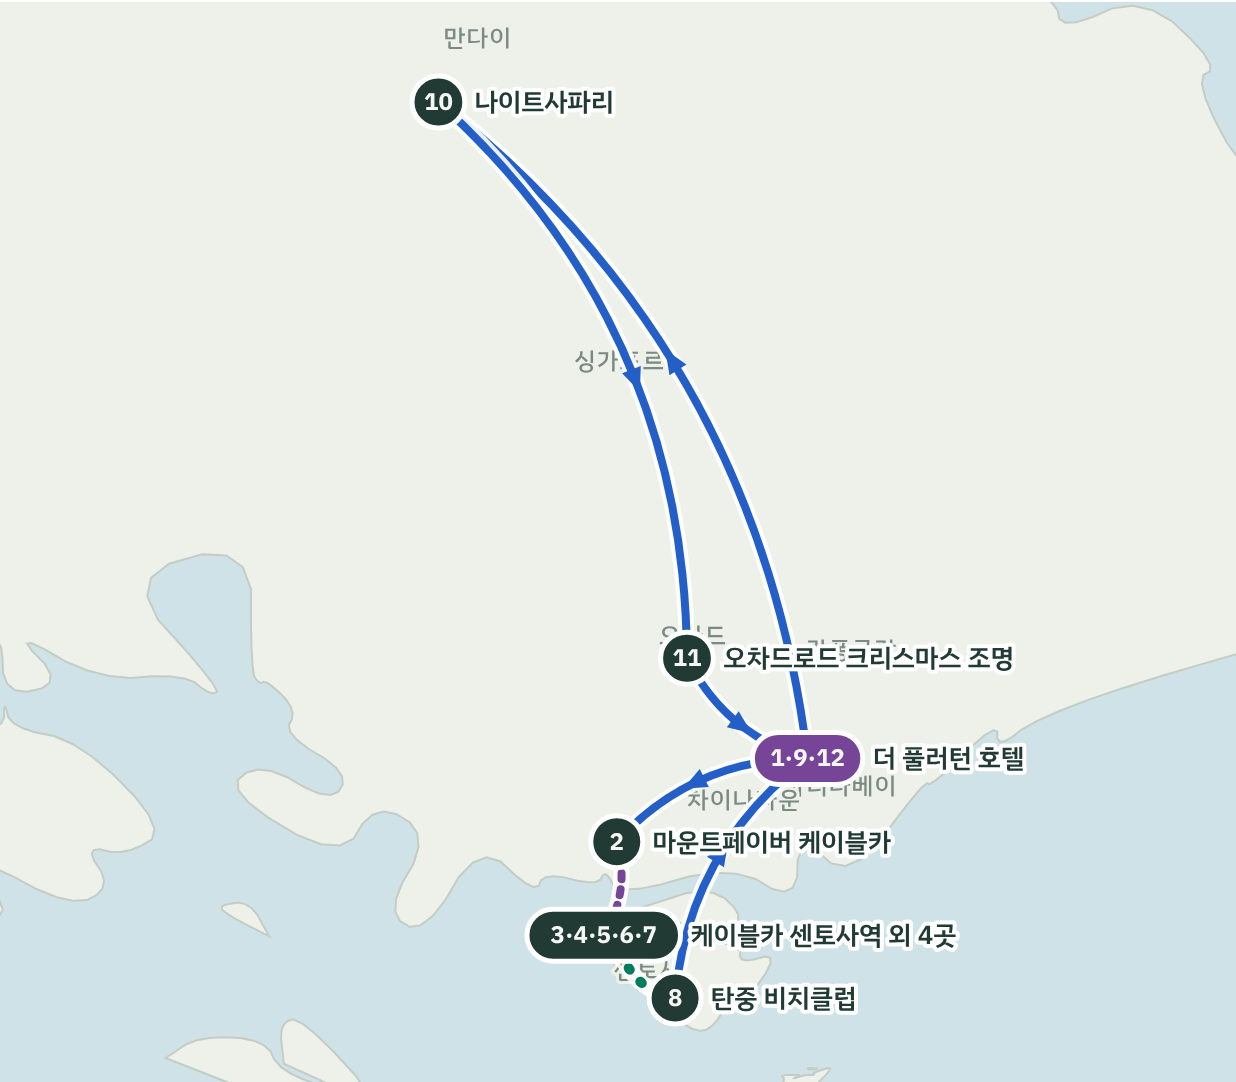
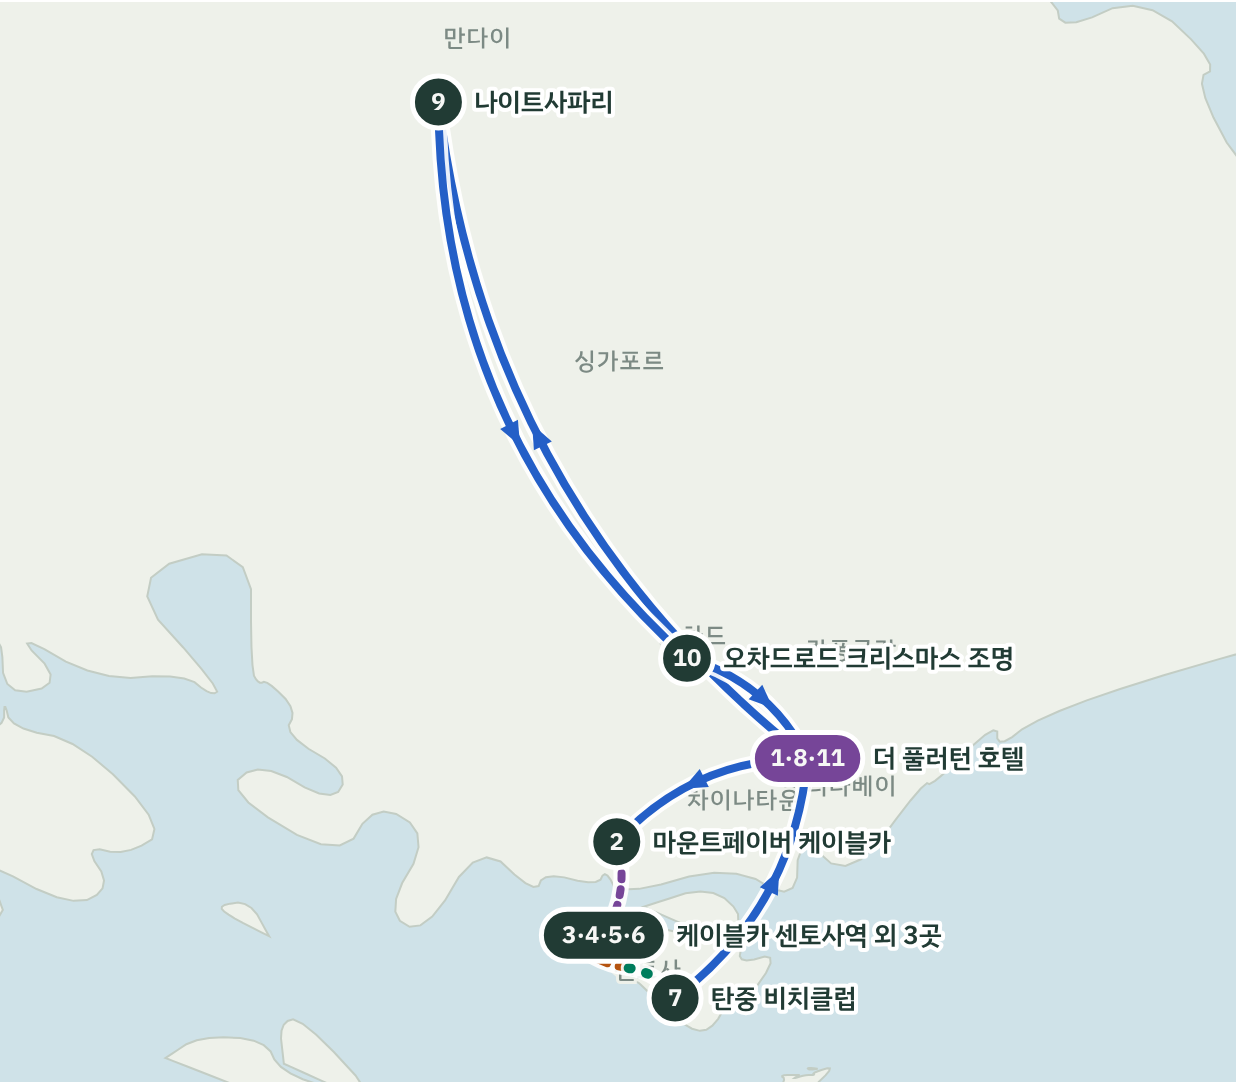
Drop MegaZip from 12/4 (luge only)
Claude-Session: https://claude.ai/code/session_01L2aYEXFB66TzMMbesmNc18

diff --git a/index.html b/index.html
@@ -415,8 +415,7 @@ footer{color:var(--muted);font-size:16px;text-align:center;padding-block:0 40px}
     <ol class="timeline">
       <li class="meal"><span class="time">아침</span><span class="what"><b>호텔 아침 식사<span class="pill meal">식사</span></b></span></li>
       <li><span class="time">09:30</span><span class="what"><b>케이블카 타고 센토사섬으로</b><small>바다 위를 지나가요. 경치가 정말 좋아요.</small></span></li>
-      <li><span class="time">10:00</span><span class="what"><b>스카이라인 루지</b><small>바퀴 달린 썰매를 타고 언덕을 내려와요. 속도는 손으로 조절해서 어렵지 않아요.</small></span></li>
-      <li><span class="time">11:30</span><span class="what"><b>메가짚</b><small>줄에 매달려 실로소 해변까지 날아가요. 네 식구 모두 함께 타요.</small></span></li>
+      <li><span class="time">10:00</span><span class="what"><b>스카이라인 루지</b><small>바퀴 달린 썰매를 타고 언덕을 내려와요. 속도는 손으로 조절해서 어렵지 않아요. 여러 번 타고, 마지막엔 실로소 해변 쪽으로 내려와요.</small></span></li>
       <li class="meal"><span class="time">12:30</span><span class="what"><b>실로소 해변 점심<span class="pill meal">식사</span></b><small>바닷가 피자집 트라피자에서 먹어요.</small></span></li>
       <li><span class="time">14:00</span><span class="what"><b>팔라완 해변, 흔들다리</b><small>섬 안 셔틀버스는 공짜예요. 흔들다리를 건너면 아시아 대륙의 가장 남쪽 끝이에요.</small></span></li>
       <li class="rest"><span class="time">15:00</span><span class="what"><b>탄중 비치클럽에서 쉬기<span class="pill rest">휴식</span></b><small>바닷가 그늘 의자에서 시원한 음료 마시며 쉬고, 택시로 호텔에 가요.</small></span></li>
@@ -617,11 +616,11 @@ footer{color:var(--muted);font-size:16px;text-align:center;padding-block:0 40px}
 // Real street map (OneMap) on the public site; the Claude viewer blocks map tiles, so it keeps the picture.
 (function(){
   if(!/github\.io$/.test(location.hostname)) return;
-  var P={"airport": [1.357, 103.989, "창이공항", 0], "dusit": [1.32, 103.963, "두짓타니 라구나", 1], "fullerton": [1.2863, 103.8532, "더 풀러턴 호텔", 1], "palm": [1.2857, 103.8543, "팜 비치 시푸드", 0], "merlion": [1.2868, 103.8546, "머라이언 파크", 0], "ginger": [1.3022, 103.8365, "진저릴리", 0], "ion": [1.304, 103.8319, "오차드로드 크리스마스 조명", 0], "lantern": [1.2838, 103.8536, "랜턴 루프탑바", 0], "luge": [1.2542, 103.8167, "스카이라인 루지", 0], "zip": [1.2528, 103.8138, "메가짚", 0], "weave": [1.2566, 103.8213, "WEAVE 점심", 0], "ocean": [1.2586, 103.819, "싱가포르 오셔나리움", 0], "jumbo": [1.2895, 103.8455, "점보 시푸드 리버사이드 포인트", 0], "gbtb": [1.2841, 103.8648, "가든스 바이 더 베이", 0], "maxwell": [1.2803, 103.8449, "맥스웰 푸드센터", 0], "btr": [1.2815, 103.8442, "불아사", 0], "jewel": [1.3602, 103.9894, "쥬얼 창이", 0], "t4": [1.3383, 103.984, "창이공항 터미널 4", 0], "safari": [1.4022, 103.788, "나이트사파리", 0], "faber": [1.2716, 103.8195, "마운트페이버 케이블카", 0], "cablesentosa": [1.2551, 103.8172, "케이블카 센토사역", 0], "supertree": [1.2816, 103.8636, "슈퍼트리 그로브", 0], "lavo": [1.2843, 103.8597, "라보", 0], "cruise": [1.283, 103.8612, "리버크루즈", 0], "trapizza": [1.2556, 103.8106, "트라피자", 0], "palawan": [1.2493, 103.8216, "팔라완 비치", 0], "botanic": [1.3116, 103.8148, "보타닉 가든", 0], "songfa": [1.2891, 103.8467, "송파 바쿠테 본점", 0], "orchard": [1.3034, 103.835, "오차드로드", 0], "helix": [1.2876, 103.8603, "헬릭스 브리지", 0], "mbs": [1.2834, 103.8607, "MBS 스카이파크 전망대", 0], "satay": [1.2818, 103.869, "사테 바이 더 베이", 0], "tanjong": [1.244, 103.8298, "탄중 비치클럽", 0], "haji": [1.3008, 103.859, "하지레인", 0]}, DAYS={"d1": [["airport", null, "00:15"], ["dusit", "taxi", "02:00"]], "d2": [["dusit", null, "08:30"], ["fullerton", "taxi", "09:00"], ["botanic", "taxi", "09:20"], ["merlion", "taxi", "11:00"], ["palm", "walk", "12:30"], ["fullerton", "walk", "14:00"], ["helix", "walk", "15:45"], ["gbtb", "walk", "16:15"], ["lavo", "walk", "18:15"], ["cruise", "walk", "20:00"], ["supertree", "walk", "21:00"], ["fullerton", "taxi", "22:15"]], "d3": [["fullerton", null, "09:00"], ["faber", "taxi", "09:30"], ["cablesentosa", "cable", "09:50"], ["luge", "walk", "10:00"], ["zip", "walk", "11:30"], ["trapizza", "zip", "12:30"], ["palawan", "shuttle", "14:00"], ["tanjong", "walk", "15:00"], ["fullerton", "taxi", "17:00"], ["safari", "taxi", "19:15"], ["ion", "taxi", "22:15"], ["fullerton", "taxi", "23:00"]], "d4": [["fullerton", null, "10:30"], ["btr", "taxi", "10:45"], ["songfa", "taxi", "11:30"], ["orchard", "taxi", "12:30"], ["jumbo", "taxi", "15:00"], ["fullerton", "taxi", "16:30"], ["jewel", "taxi", "17:30"], ["t4", "shuttle", "20:45"]]}, R={"d1": [["공항 → 숙소", 0, 1]], "d2": [["하루 전체", 0, 11], ["오전 이동", 0, 3], ["베이 산책", 3, 7], ["저녁·야경", 7, 11]], "d3": [["하루 전체", 0, 11], ["센토사 입도", 0, 2], ["센토사 해변", 2, 7], ["사파리·야경", 7, 11]], "d4": [["하루 전체", 0, 7], ["시내 관광", 0, 5], ["공항 이동", 5, 6], ["쥬얼·출국", 6, 7]]}, DEF={"d1": 0, "d2": 2, "d3": 2, "d4": 1};
+  var P={"airport": [1.357, 103.989, "창이공항", 0], "dusit": [1.32, 103.963, "두짓타니 라구나", 1], "fullerton": [1.2863, 103.8532, "더 풀러턴 호텔", 1], "palm": [1.2857, 103.8543, "팜 비치 시푸드", 0], "merlion": [1.2868, 103.8546, "머라이언 파크", 0], "ginger": [1.3022, 103.8365, "진저릴리", 0], "ion": [1.304, 103.8319, "오차드로드 크리스마스 조명", 0], "lantern": [1.2838, 103.8536, "랜턴 루프탑바", 0], "luge": [1.2542, 103.8167, "스카이라인 루지", 0], "zip": [1.2528, 103.8138, "메가짚", 0], "weave": [1.2566, 103.8213, "WEAVE 점심", 0], "ocean": [1.2586, 103.819, "싱가포르 오셔나리움", 0], "jumbo": [1.2895, 103.8455, "점보 시푸드 리버사이드 포인트", 0], "gbtb": [1.2841, 103.8648, "가든스 바이 더 베이", 0], "maxwell": [1.2803, 103.8449, "맥스웰 푸드센터", 0], "btr": [1.2815, 103.8442, "불아사", 0], "jewel": [1.3602, 103.9894, "쥬얼 창이", 0], "t4": [1.3383, 103.984, "창이공항 터미널 4", 0], "safari": [1.4022, 103.788, "나이트사파리", 0], "faber": [1.2716, 103.8195, "마운트페이버 케이블카", 0], "cablesentosa": [1.2551, 103.8172, "케이블카 센토사역", 0], "supertree": [1.2816, 103.8636, "슈퍼트리 그로브", 0], "lavo": [1.2843, 103.8597, "라보", 0], "cruise": [1.283, 103.8612, "리버크루즈", 0], "trapizza": [1.2556, 103.8106, "트라피자", 0], "palawan": [1.2493, 103.8216, "팔라완 비치", 0], "botanic": [1.3116, 103.8148, "보타닉 가든", 0], "songfa": [1.2891, 103.8467, "송파 바쿠테 본점", 0], "orchard": [1.3034, 103.835, "오차드로드", 0], "helix": [1.2876, 103.8603, "헬릭스 브리지", 0], "mbs": [1.2834, 103.8607, "MBS 스카이파크 전망대", 0], "satay": [1.2818, 103.869, "사테 바이 더 베이", 0], "tanjong": [1.244, 103.8298, "탄중 비치클럽", 0], "haji": [1.3008, 103.859, "하지레인", 0]}, DAYS={"d1": [["airport", null, "00:15"], ["dusit", "taxi", "02:00"]], "d2": [["dusit", null, "08:30"], ["fullerton", "taxi", "09:00"], ["botanic", "taxi", "09:20"], ["merlion", "taxi", "11:00"], ["palm", "walk", "12:30"], ["fullerton", "walk", "14:00"], ["helix", "walk", "15:45"], ["gbtb", "walk", "16:15"], ["lavo", "walk", "18:15"], ["cruise", "walk", "20:00"], ["supertree", "walk", "21:00"], ["fullerton", "taxi", "22:15"]], "d3": [["fullerton", null, "09:00"], ["faber", "taxi", "09:30"], ["cablesentosa", "cable", "09:50"], ["luge", "walk", "10:00"], ["trapizza", "walk", "12:30"], ["palawan", "shuttle", "14:00"], ["tanjong", "walk", "15:00"], ["fullerton", "taxi", "17:00"], ["safari", "taxi", "19:15"], ["ion", "taxi", "22:15"], ["fullerton", "taxi", "23:00"]], "d4": [["fullerton", null, "10:30"], ["btr", "taxi", "10:45"], ["songfa", "taxi", "11:30"], ["orchard", "taxi", "12:30"], ["jumbo", "taxi", "15:00"], ["fullerton", "taxi", "16:30"], ["jewel", "taxi", "17:30"], ["t4", "shuttle", "20:45"]]}, R={"d1": [["공항 → 숙소", 0, 1]], "d2": [["하루 전체", 0, 11], ["오전 이동", 0, 3], ["베이 산책", 3, 7], ["저녁·야경", 7, 11]], "d3": [["하루 전체", 0, 10], ["센토사 입도", 0, 2], ["센토사 해변", 2, 6], ["사파리·야경", 6, 10]], "d4": [["하루 전체", 0, 7], ["시내 관광", 0, 5], ["공항 이동", 5, 6], ["쥬얼·출국", 6, 7]]}, DEF={"d1": 0, "d2": 2, "d3": 2, "d4": 1};
   var DIR={palm:'bottom',fullerton:'left',cablesentosa:'top',zip:'bottom',trapizza:'bottom',jumbo:'top',songfa:'right',luge:'right'};
   var OFF={right:[16,0],left:[-16,0],bottom:[0,14],top:[0,-14]};
   var COL={taxi:'#245fc7',walk:'#007d5d',rail:'#b5530f',shuttle:'#b5530f',cable:'#8a3ffc',zip:'#8a3ffc'};
-  var MODE={taxi:'택시·Grab',walk:'도보',rail:'모노레일·셔틀',shuttle:'모노레일·셔틀',cable:'케이블카·짚라인',zip:'케이블카·짚라인'};
+  var MODE={taxi:'택시·Grab',walk:'도보',rail:'모노레일·셔틀',shuttle:'모노레일·셔틀',cable:'케이블카',zip:'케이블카'};
   var css=document.createElement('link'); css.rel='stylesheet'; css.href='https://cdnjs.cloudflare.com/ajax/libs/leaflet/1.9.4/leaflet.min.css'; document.head.appendChild(css);
   var js=document.createElement('script'); js.src='https://cdnjs.cloudflare.com/ajax/libs/leaflet/1.9.4/leaflet.min.js';
   js.onload=function(){

diff --git a/map.html b/map.html
@@ -207,14 +207,13 @@ const DAYS = [
     tips:["보타닉 가든이 힘들면 빼고, 10:00에 체크아웃해서 풀러턴에 짐을 맡긴 뒤 11:00 머라이언 파크로 걸어가면 돼요.","라보는 MBS 타워1 57층이라 호텔 로비 쪽 전용 엘리베이터로 올라가요.","가든 랩소디가 끝나면 가든스 택시 승강장이 붐벼요. Grab은 끝나기 5~10분 전에 부르면 덜 기다려요."]
   },
   { id:"d3", tab:"12/4 금", sub:"센토사 · 나이트사파리", title:"12월 4일(금) · 센토사와 나이트사파리",
-    note:"케이블카로 센토사 → 루지 → 메가짚 → 트라피자 점심 → 팔라완 비치 → 탄중 비치클럽 → 호텔 휴식 → 나이트사파리 → (선택) 오차드 크리스마스 조명.",
+    note:"케이블카로 센토사 → 루지 → 트라피자 점심 → 팔라완 비치 → 탄중 비치클럽 → 호텔 휴식 → 나이트사파리 → (선택) 오차드 크리스마스 조명.",
     stops:[
       {p:"fullerton", t:"09:00", d:"조식 후 출발"},
       {p:"faber", t:"09:30", d:"케이블카 탑승 (SkyPass)", leg:{m:"taxi", min:"15분", cost:"S$14~18"}},
       {p:"cablesentosa", t:"09:50", d:"센토사 도착 · 임비아", leg:{m:"cable", min:"15~20분", cost:"SkyPass S$32.90~"}},
-      {p:"luge", t:"10:00", d:"루지 3~4회 (10~12시 할인)", leg:{m:"walk", min:"5분"}},
-      {p:"zip", t:"11:30", d:"메가짚 출발 · 실로소 비치에 착지", leg:{m:"walk", min:"5~10분"}},
-      {p:"trapizza", t:"12:30", d:"점심 · 트라피자 (실로소 비치)", leg:{m:"zip", min:"1~2분"}},
+      {p:"luge", t:"10:00", d:"루지 3~4회 (10~12시 할인) · 마지막은 실로소 비치 쪽으로 하산", leg:{m:"walk", min:"5분"}},
+      {p:"trapizza", t:"12:30", d:"점심 · 트라피자 (실로소 비치)", leg:{m:"walk", min:"5~10분"}},
       {p:"palawan", t:"14:00", d:"팔라완 비치 · 흔들다리, 아시아 대륙 최남단", leg:{m:"shuttle", min:"10~15분", cost:"비치 셔틀 무료"}},
       {p:"tanjong", t:"15:00", d:"탄중 비치클럽 · 음료 한잔", leg:{m:"walk", min:"15분", cost:"셔틀도 있음"}},
       {p:"fullerton", t:"17:00", d:"휴식 (16:30 Grab 출발)", leg:{m:"taxi", min:"20~25분", cost:"S$20~25"}},
@@ -222,7 +221,7 @@ const DAYS = [
       {p:"ion", t:"22:15", d:"(선택) ION 앞 아치 → 응안시티 크리스마스 빌리지까지 도보 15분 (21:45 Grab 출발)", leg:{m:"taxi", min:"25~30분", cost:"S$22~30"}},
       {p:"fullerton", t:"23:00", d:"숙소 복귀 (22:45 Grab)", leg:{m:"taxi", min:"15분", cost:"S$12~16"}},
     ],
-    tips:["메가짚은 실로소 비치에 착지해서 트라피자까지 바로 걸어가면 돼요. 안 타는 분은 루지 언덕에서 모노레일로 내려와 비치역에서 만나면 돼요.","만다이에서 나올 때는 택시 줄이 길 수 있어요. 나가기 10분 전에 Grab을 미리 부르세요.","힘들면 오차드는 빼고 나이트사파리에서 바로 호텔로 가면 돼요(택시 30분)."]
+    tips:["루지는 마지막에 실로소 비치 쪽으로 내려와서 트라피자까지 걸어가면 돼요.","만다이에서 나올 때는 택시 줄이 길 수 있어요. 나가기 10분 전에 Grab을 미리 부르세요.","힘들면 오차드는 빼고 나이트사파리에서 바로 호텔로 가면 돼요(택시 30분)."]
   },
   { id:"d4", tab:"12/5 토", sub:"차이나타운 · 오차드 · 귀국", title:"12월 5일(토) · 차이나타운, 오차드, 점보, 귀국",
     note:"호텔에서 쉬다가 10:30 체크아웃 → 불아사 → 송파 바쿠테 → 오차드로드 → 점보 → 풀러턴에서 짐 싣고 쥬얼 → 팀호완 → 눈 쇼 → 셔틀로 T4 체크인 → 22:30 출발(KE644).",
@@ -269,7 +268,7 @@ let day = DAYS[1], sel = null;
 let scope=0;
 function ranges(){
   if(day.id==='d1') return [['공항 → 숙소',0,1]];
-  if(day.id==='d3') return [['하루 전체',0,11],['센토사 입도',0,2],['센토사 해변',2,7],['사파리·야경',7,11]];
+  if(day.id==='d3') return [['하루 전체',0,10],['센토사 입도',0,2],['센토사 해변',2,6],['사파리·야경',6,10]];
   if(day.id==='d4') return [['하루 전체',0,7],['시내 관광',0,5],['공항 이동',5,6],['쥬얼·출국',6,7]];
   return day.id==='d2' ? [['하루 전체',0,11],['오전 이동',0,3],['베이 산책',3,7],['저녁·야경',7,11]] : [['주요 동선',0,day.stops.length-1],['하루 전체',0,day.stops.length-1]];
 }
